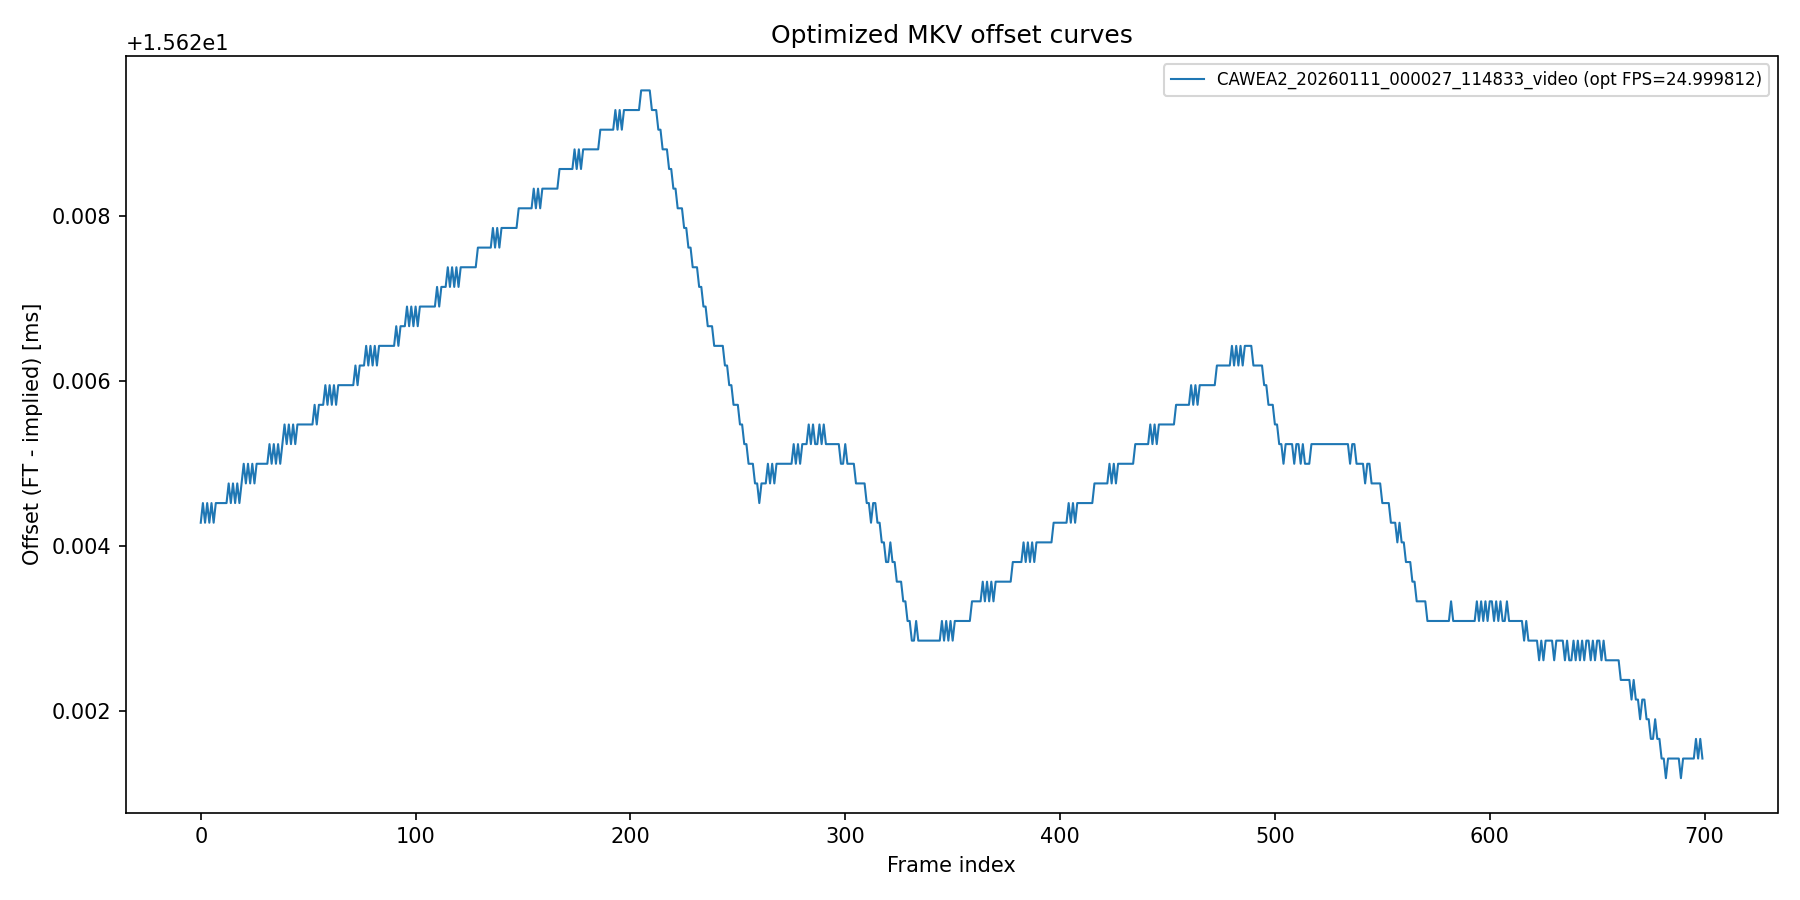
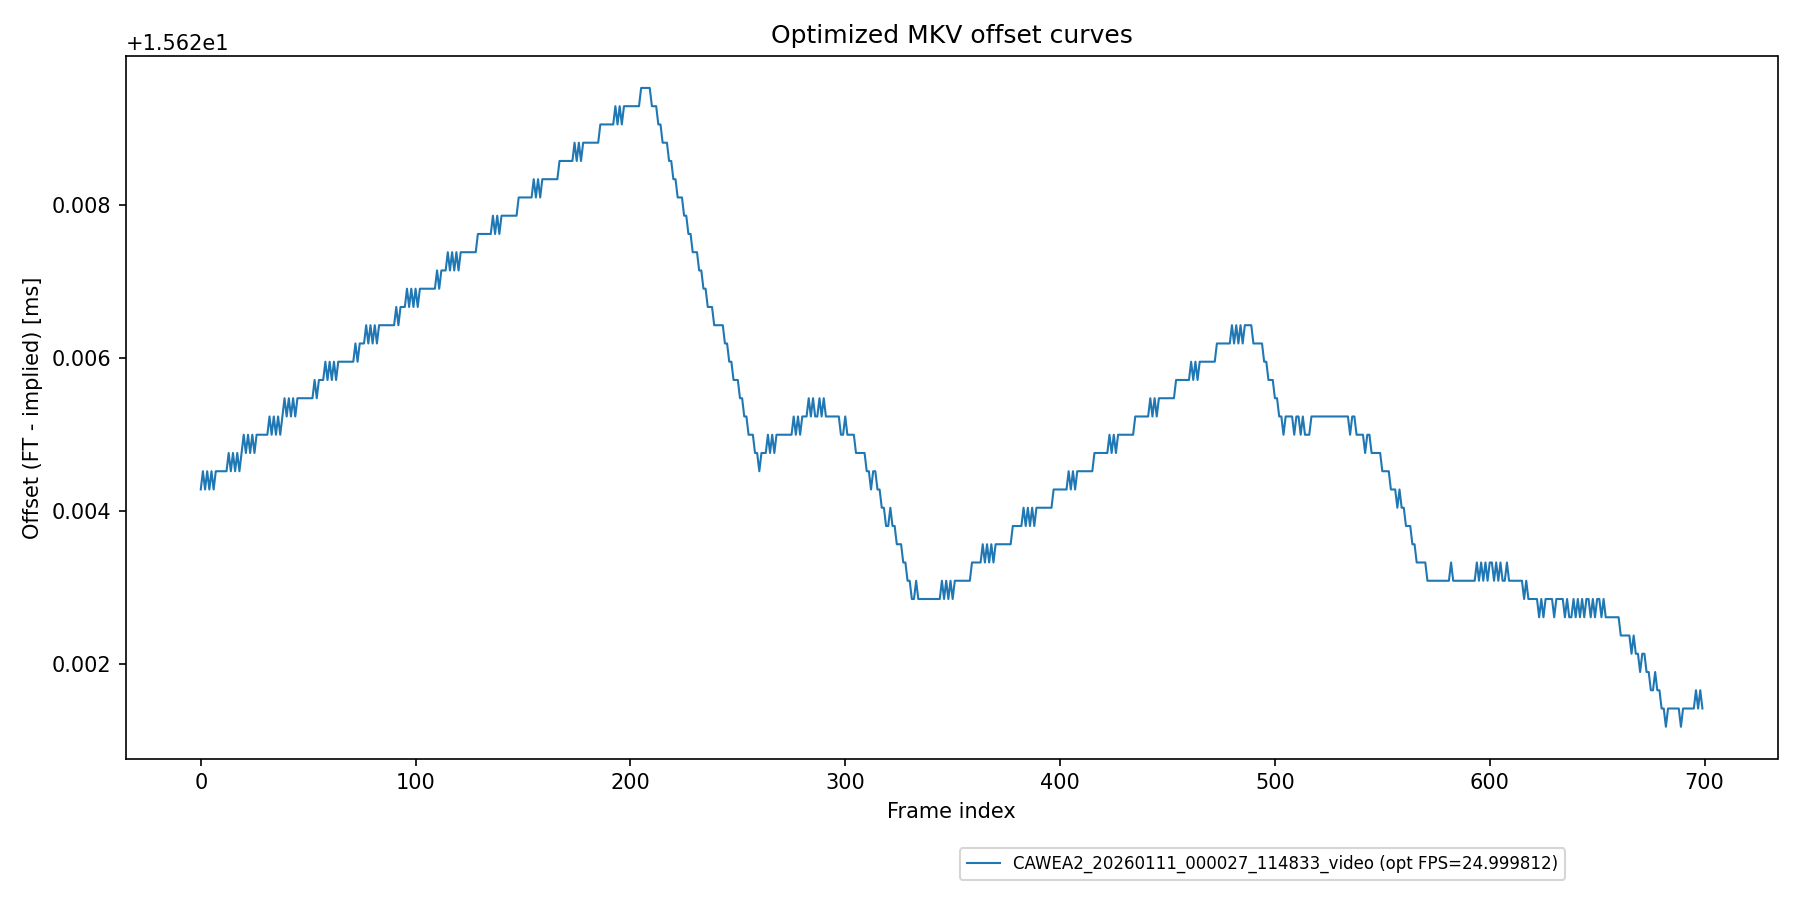
Remove unused images and clean up code for optimized offset plotting

diff --git a/mkv_ft_time_offsets.py b/mkv_ft_time_offsets.py
@@ -32,8 +32,6 @@ MKV_FILENAME_PATTERN = re.compile(
     r"^(?P<station>.+?)_(?P<date>\d{8})_(?P<time>\d{6})_(?P<micro>\d{6})(?:_.+)?\.(?i:mkv)$"
 )
 
-DAY_NUMBER_DIR_PATTERN = re.compile(r"^\d{8}-(?P<daynum>\d{3})(?:_\d{2})?$")
-
 
 @dataclass(frozen=True)
 class FTFileMeta:
@@ -400,7 +398,7 @@ def plot_combined_optimized_offsets(
     plt.ylabel("Offset (FT - implied) [ms]")
     plt.title("Optimized MKV offset curves")
     plt.ylim(y_min, y_max)
-    plt.legend(loc="best", fontsize=8)
+    plt.legend(loc="center left", bbox_to_anchor=(0.5, -0.15),fontsize=8)
     plt.tight_layout()
     plt.savefig(output_path, dpi=150)
     plt.close()
@@ -409,14 +407,6 @@ def plot_combined_optimized_offsets(
 def sanitize_for_filename(text: str) -> str:
     sanitized = re.sub(r"[^A-Za-z0-9._-]+", "_", text)
     return sanitized.strip("_") or "curve"
-
-
-def extract_day_number_from_path(path: Path) -> float:
-    for part in reversed(path.parts):
-        match = DAY_NUMBER_DIR_PATTERN.match(part)
-        if match:
-            return float(int(match.group("daynum")))
-    return float("nan")
 
 
 def plot_single_optimized_curve(
@@ -490,21 +480,21 @@ def plot_optimized_offset_summary_band(
 
 
 def plot_optimized_offset_histogram(
-    curves: list[tuple[str, np.ndarray, float, float]],
+    curves: list[tuple[str, np.ndarray, float, np.ndarray]],
     output_path: Path,
 ) -> None:
     import matplotlib.pyplot as plt
 
     all_offsets_ms = np.concatenate([offsets * 1000.0 for _, offsets, _, _ in curves])
-    all_day_numbers = np.concatenate(
-        [np.full(len(offsets), day_number, dtype=float) for _, offsets, _, day_number in curves]
+    all_unix_times = np.concatenate(
+        [unix_times for _, _, _, unix_times in curves]
     )
 
     counts, bin_edges = np.histogram(all_offsets_ms, bins=60)
     bin_centers = 0.5 * (bin_edges[:-1] + bin_edges[1:])
     bin_widths = np.diff(bin_edges)
 
-    bar_avg_days = np.full(len(counts), np.nan, dtype=float)
+    bar_avg_unix = np.full(len(counts), np.nan, dtype=float)
     for index in range(len(counts)):
         left = bin_edges[index]
         right = bin_edges[index + 1]
@@ -516,44 +506,44 @@ def plot_optimized_offset_histogram(
         if not np.any(mask):
             continue
 
-        day_values = all_day_numbers[mask]
-        finite_days = day_values[np.isfinite(day_values)]
-        if finite_days.size > 0:
-            bar_avg_days[index] = float(np.mean(finite_days))
+        unix_values = all_unix_times[mask]
+        finite_unix = unix_values[np.isfinite(unix_values)]
+        if finite_unix.size > 0:
+            bar_avg_unix[index] = float(np.mean(finite_unix))
 
-    plt.figure(figsize=(10, 5))
-    bars = plt.bar(bin_centers, counts, width=bin_widths, align="center")
+    fig, ax = plt.subplots(figsize=(10, 5))
+    bars = ax.bar(bin_centers, counts, width=bin_widths, align="center")
 
-    finite_bar_days = bar_avg_days[np.isfinite(bar_avg_days)]
-    if finite_bar_days.size > 0:
+    finite_bar_unix = bar_avg_unix[np.isfinite(bar_avg_unix)]
+    if finite_bar_unix.size > 0:
         cmap = plt.get_cmap("viridis")
-        day_min = float(np.min(finite_bar_days))
-        day_max = float(np.max(finite_bar_days))
-        if np.isclose(day_min, day_max):
-            norm = plt.Normalize(day_min - 0.5, day_max + 0.5)
+        unix_min = float(np.min(finite_bar_unix))
+        unix_max = float(np.max(finite_bar_unix))
+        if np.isclose(unix_min, unix_max):
+            norm = plt.Normalize(unix_min - 0.5, unix_max + 0.5)
         else:
-            norm = plt.Normalize(day_min, day_max)
+            norm = plt.Normalize(unix_min, unix_max)
 
-        for bar, avg_day in zip(bars, bar_avg_days):
-            if np.isfinite(avg_day):
-                bar.set_color(cmap(norm(avg_day)))
+        for bar, avg_unix in zip(bars, bar_avg_unix):
+            if np.isfinite(avg_unix):
+                bar.set_color(cmap(norm(avg_unix)))
             else:
                 bar.set_color("tab:gray")
 
         scalar_mappable = plt.cm.ScalarMappable(norm=norm, cmap=cmap)
         scalar_mappable.set_array([])
-        colorbar = plt.colorbar(scalar_mappable)
-        colorbar.set_label("Average day number")
+        colorbar = fig.colorbar(scalar_mappable, ax=ax)
+        colorbar.set_label("Average Unix time")
     else:
         for bar in bars:
             bar.set_color("tab:blue")
 
-    plt.xlabel("Optimized offset (FT - implied) [ms]")
-    plt.ylabel("Count")
-    plt.title("Histogram of optimized offsets")
-    plt.tight_layout()
-    plt.savefig(output_path, dpi=150)
-    plt.close()
+    ax.set_xlabel("Optimized offset (FT - implied) [ms]")
+    ax.set_ylabel("Count")
+    ax.set_title("Histogram of optimized offsets")
+    fig.tight_layout()
+    fig.savefig(output_path, dpi=150)
+    plt.close(fig)
 
 
 def plot_optimized_fps_histogram(
@@ -599,7 +589,7 @@ def analyze_single_mkv(
     ft_times: np.ndarray,
     plot_output: Path | None,
     print_offsets_by_frame: bool,
-) -> tuple[np.ndarray, np.ndarray, float]:
+) -> tuple[np.ndarray, np.ndarray, float, np.ndarray]:
     frame_count = run_ffprobe_frame_count(mkv_path)
     print(f"\nMKV file: {mkv_path}")
     print(f"Station in filename: {station_id}")
@@ -656,7 +646,7 @@ def analyze_single_mkv(
         if created:
             print(f"Saved offset plot to: {plot_output}")
 
-    return offsets, optimized_offsets, optimized_fps
+    return offsets, optimized_offsets, optimized_fps, optimized_implied_times
 
 
 def run_batch_mkv_task(
@@ -665,14 +655,13 @@ def run_batch_mkv_task(
     mkv_start_iso: str,
     frame_rate: float,
     ft_times: np.ndarray,
-    day_number: float,
-) -> tuple[str, str, np.ndarray, np.ndarray, float, float]:
+) -> tuple[str, str, np.ndarray, np.ndarray, float, np.ndarray]:
     mkv_path = Path(mkv_path_str)
     mkv_start_utc = datetime.fromisoformat(mkv_start_iso)
 
     output_buffer = io.StringIO()
     with contextlib.redirect_stdout(output_buffer):
-        nominal_offsets, optimized_offsets, optimized_fps = analyze_single_mkv(
+        nominal_offsets, optimized_offsets, optimized_fps, optimized_implied_times = analyze_single_mkv(
             mkv_path=mkv_path,
             station_id=station_id,
             mkv_start_utc=mkv_start_utc,
@@ -688,7 +677,7 @@ def run_batch_mkv_task(
         nominal_offsets,
         optimized_offsets,
         optimized_fps,
-        day_number,
+        optimized_implied_times,
     )
 
 
@@ -837,7 +826,7 @@ def main() -> int:
     print(f"Overlapping days found: {len(overlap_days)}")
     print(f"Processing first {len(selected_days)} day(s): {', '.join(selected_days)}")
 
-    combined_curves: list[tuple[str, np.ndarray, np.ndarray, float, float]] = []
+    combined_curves: list[tuple[str, np.ndarray, np.ndarray, float, np.ndarray]] = []
 
     for day_key in selected_days:
         day_mkv_files = mkv_by_day[day_key]
@@ -849,7 +838,12 @@ def main() -> int:
 
         if args.workers == 1:
             for mkv_item in day_mkv_files:
-                nominal_offsets, optimized_offsets, optimized_fps = analyze_single_mkv(
+                (
+                    nominal_offsets,
+                    optimized_offsets,
+                    optimized_fps,
+                    optimized_implied_times,
+                ) = analyze_single_mkv(
                     mkv_path=mkv_item.path,
                     station_id=mkv_item.station_id,
                     mkv_start_utc=mkv_item.start_utc,
@@ -875,13 +869,13 @@ def main() -> int:
                             nominal_offsets,
                             optimized_offsets,
                             optimized_fps,
-                            extract_day_number_from_path(mkv_item.path),
+                            optimized_implied_times,
                         )
                     )
             continue
 
         print(f"Processing day {day_key} MKV files with multiprocessing workers={args.workers}")
-        task_args: list[tuple[str, str, str, float, np.ndarray, float]] = []
+        task_args: list[tuple[str, str, str, float, np.ndarray]] = []
         for mkv_item in day_mkv_files:
             task_args.append(
                 (
@@ -890,7 +884,6 @@ def main() -> int:
                     mkv_item.start_utc.isoformat(),
                     args.fps,
                     day_ft_times,
-                    extract_day_number_from_path(mkv_item.path),
                 )
             )
 
@@ -903,7 +896,7 @@ def main() -> int:
                     nominal_offsets,
                     optimized_offsets,
                     optimized_fps,
-                    day_number,
+                    optimized_implied_times,
                 ) = future.result()
                 print(output_text, end="")
                 curve_std_ms = optimized_curve_std_ms(optimized_offsets)
@@ -918,7 +911,13 @@ def main() -> int:
                     )
                 else:
                     combined_curves.append(
-                        (label, nominal_offsets, optimized_offsets, optimized_fps, day_number)
+                        (
+                            label,
+                            nominal_offsets,
+                            optimized_offsets,
+                            optimized_fps,
+                            optimized_implied_times,
+                        )
                     )
 
     if combined_curves:
@@ -926,9 +925,9 @@ def main() -> int:
             (label, optimized_offsets, optimized_fps)
             for label, _, optimized_offsets, optimized_fps, _ in combined_curves
         ]
-        optimized_curves_with_day = [
-            (label, optimized_offsets, optimized_fps, day_number)
-            for label, _, optimized_offsets, optimized_fps, day_number in combined_curves
+        optimized_curves_with_time = [
+            (label, optimized_offsets, optimized_fps, optimized_implied_times)
+            for label, _, optimized_offsets, optimized_fps, optimized_implied_times in combined_curves
         ]
         created = try_create_plot(
             f"combined optimized-offset plot ({plot_output})",
@@ -975,7 +974,7 @@ def main() -> int:
         )
         created = try_create_plot(
             f"optimized offset histogram ({offset_hist_plot})",
-            lambda: plot_optimized_offset_histogram(optimized_curves_with_day, offset_hist_plot),
+            lambda: plot_optimized_offset_histogram(optimized_curves_with_time, offset_hist_plot),
         )
         if created:
             print(f"Saved optimized offset histogram to: {offset_hist_plot}")
